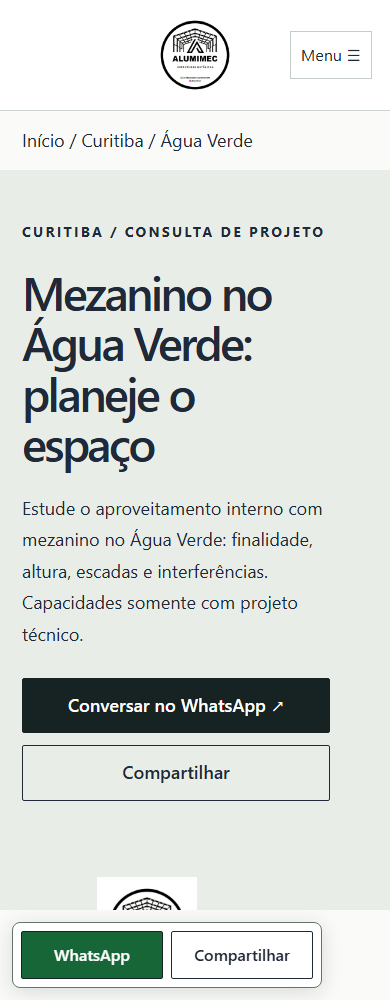
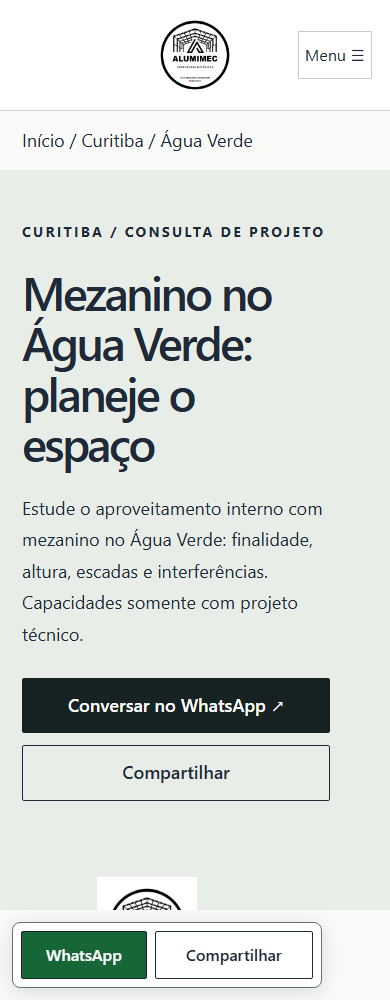
Keep mobile labels readable and reserve space at enlarged text sizes

diff --git a/index.css b/index.css
@@ -1059,4 +1059,40 @@ body {
   width: clamp(210px, 30vw, 340px);
   max-width: calc(100vw - 98px);
 }
-.floating-contact .contact-actions{width:min(340px,calc(100vw - 98px))}.floating-contact .contact-actions>.button{padding-inline:8px}.floating-contact .contact-actions>button{flex-grow:1.35}
+.floating-contact .contact-actions {
+  width: min(340px, calc(100vw - 98px));
+}
+.floating-contact .contact-actions > .button {
+  padding-inline: 8px;
+}
+.floating-contact .contact-actions > button {
+  flex-grow: 1.35;
+}
+.floating-contact .contact-actions > button.button {
+  flex-grow: 1.3;
+}
+@media (max-width: 520px) {
+  .hero h1 {
+    font-size: clamp(1.65rem, 9.6vw, 2.35rem);
+  }
+}
+.skip-link {
+  top: 0;
+  transform: translateY(-150%);
+}
+.skip-link:focus {
+  transform: translateY(0);
+}
+@media (max-width: 800px) {
+  .menu-toggle {
+    overflow-wrap: normal;
+    padding-inline: 6px;
+  }
+}
+.floating-contact[data-large-text="true"] .contact-actions {
+  flex-direction: column;
+}
+.floating-contact[data-large-text="true"] .contact-actions > .button {
+  width: 100%;
+  flex: none;
+}

diff --git a/components/FloatingButtons.tsx b/components/FloatingButtons.tsx
@@ -8,11 +8,19 @@ export default function FloatingButtons() {
     update();
     const dock = document.querySelector(".floating-contact");
     const resize = new ResizeObserver(() => {
-      if (dock)
+      if (dock) {
+        dock.setAttribute(
+          "data-large-text",
+          String(
+            parseFloat(getComputedStyle(document.documentElement).fontSize) >=
+              27,
+          ),
+        );
         document.documentElement.style.setProperty(
           "--dock-space",
           `${Math.ceil(dock.getBoundingClientRect().height) + 24}px`,
         );
+      }
     });
     if (dock) resize.observe(dock);
     scroller?.addEventListener("scroll", update, { passive: true });

diff --git a/docs/RODADA-VISUAL.md b/docs/RODADA-VISUAL.md
@@ -18,3 +18,6 @@ Capturas antes/depois: `docs/qa/cards-before.png`, `cards-after-320.png`, `cards
 A expansão territorial solicitada posteriormente ainda não está incluída nesta publicação visual. Exige inventário oficial por município e conteúdo editorial próprio; não será considerada concluída por contagem de rotas.
 ## Checkpoint de publicação visual
 A rodada visual foi publicada no commit `a5b40f5` e verificada em produção: 160 URLs, sitemap, oito endpoints de ícones/manifest e teste mobile de share/lightbox/passos. Na etapa territorial seguinte, a faixa dos controles passou a ajustar sua altura ao texto ampliado (ResizeObserver), e as capturas completas dos cards foram refeitas sem recortes causados pela área rolável.
+
+## Refinamento de leitura
+Após a etapa 1, o hero de 320px foi ajustado para evitar a fragmentação da palavra “possibilidades” no tamanho normal. O menu mantém a palavra inteira. O link de pular conteúdo fica totalmente fora da tela até receber foco, inclusive a 200%. Os controles flutuantes se empilham quando a fonte raiz aumenta, e sua faixa reservada acompanha a altura real. Teste reproduzível: `node scripts/dock-qa.mjs`; capturas `docs/qa/dock-18px.png` e `dock-36px.png`. Build, lint, tipos e verificação de rotas passaram; nenhuma URL ou política de indexação mudou.
